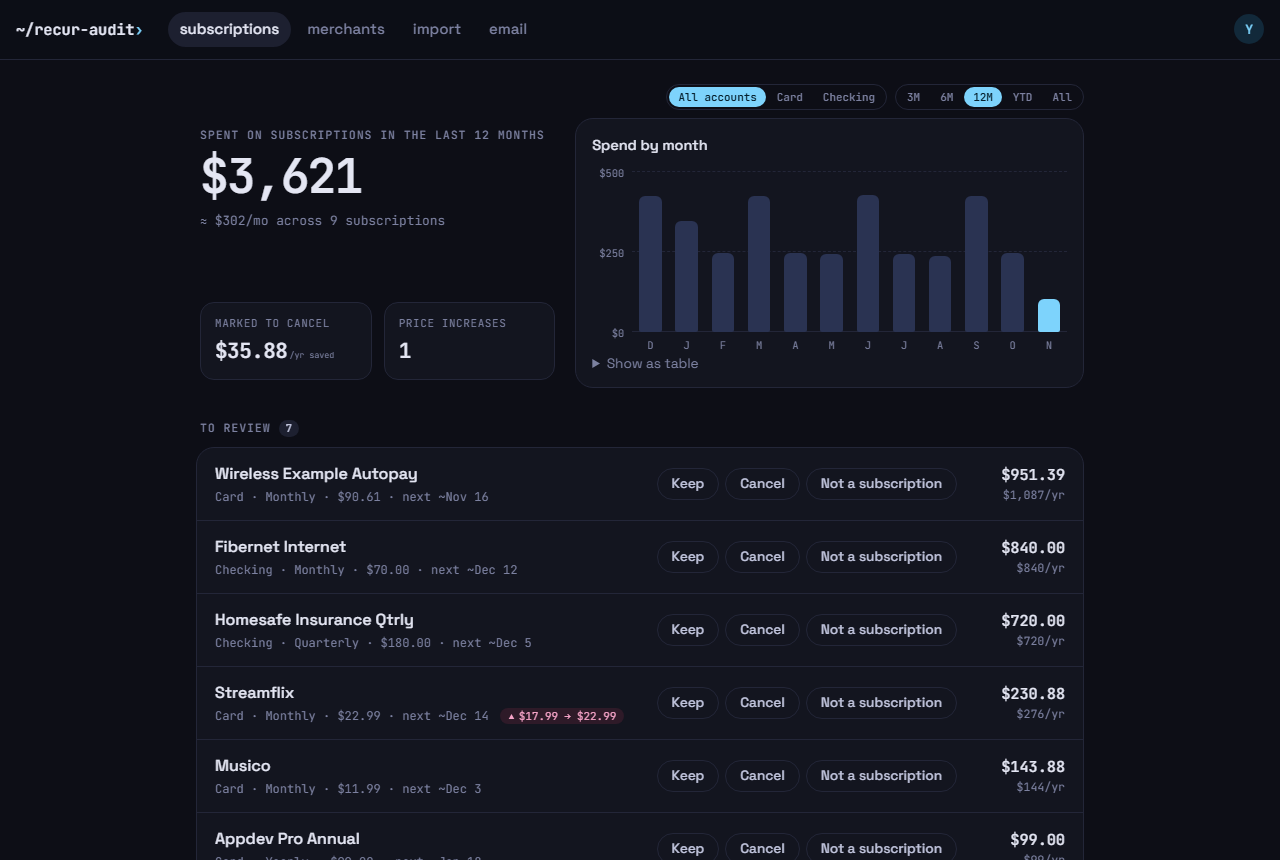
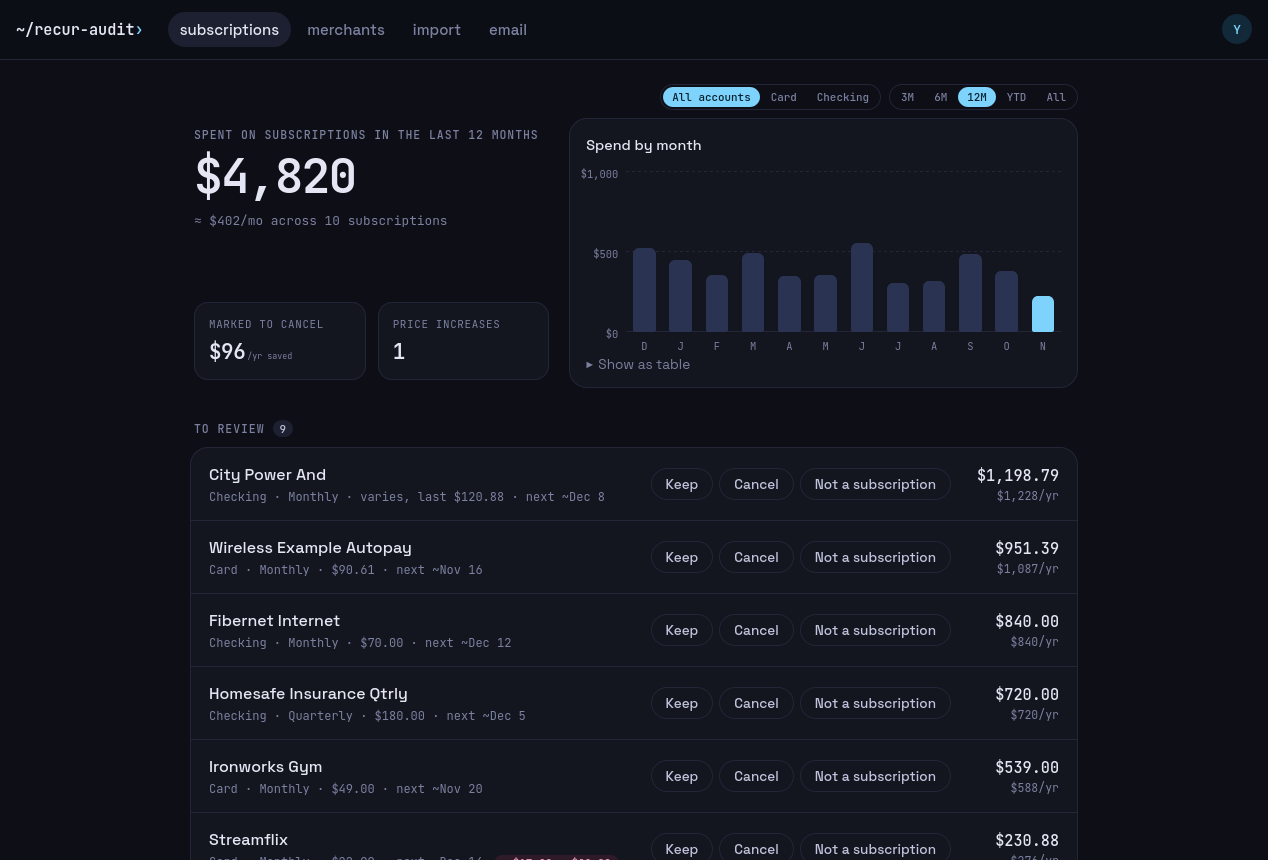
Fix detection false positives, show progress for Suggest categories, refresh screenshots
- Plans under one merchant must share an exact price, so random purchases at similar prices aren't plans
- A recent run alone only counts at one steady price, so a swinging utility bill stays a variable bill
- Suggest categories disables the page while the model works and says how many it categorized
- New dashboard and merchants screenshots from demo data

diff --git a/app/templates/merchants.html b/app/templates/merchants.html
@@ -18,13 +18,17 @@
       {% if counts.none %}<a href="{{ filter_url('none') }}" {% if category == "none" %}aria-current="true"{% endif %}>Uncategorized <span>{{ counts.none }}</span></a>{% endif %}
     </nav>
     {% if can_suggest and counts.none %}
+      {# The whole section shows it's busy, so nothing gets edited while the model answers. #}
       <button class="button" hx-post="/merchants/suggest" hx-vals='{"filter": {{ category | tojson }}}'
-              hx-target="#merchants" hx-select="#merchants" hx-swap="outerHTML">
+              hx-target="#merchants" hx-select="#merchants" hx-swap="outerHTML"
+              hx-indicator="#merchants" hx-disabled-elt="this">
         <span class="idle">Suggest categories</span><span class="busy">Asking the model…</span>
       </button>
     {% endif %}
   </div>
+  <div class="notice busy-note"><p>Categorizing {{ counts.none }} merchant{{ "" if counts.none == 1 else "s" }} with your model. It takes a few seconds, or about a minute if the model was asleep.</p></div>
   {% if error %}<div class="notice error"><p>{{ error }}</p></div>{% endif %}
+  {% if suggested is not none %}<div class="notice ok"><p>{{ suggested }}</p></div>{% endif %}
   {% if not merchants %}
     <p class="empty muted">No merchants in this category.</p>
   {% else %}

diff --git a/app/static/app.css b/app/static/app.css
@@ -548,6 +548,10 @@ button, select, input { font: inherit; color: inherit; }
 .filter-chips a span { margin-left: 4px; color: var(--muted); font: 0.75rem var(--mono); }
 .filter-chips a[aria-current="true"] { background: var(--accent); border-color: var(--accent); color: var(--on-accent); }
 .filter-chips a[aria-current="true"] span { color: inherit; opacity: 0.75; }
+.busy-note { display: none; background: var(--accent-soft); }
+#merchants.htmx-request .busy-note { display: block; }
+#merchants.htmx-request .notice.ok, #merchants.htmx-request .notice.error { display: none; }
+#merchants.htmx-request .list, #merchants.htmx-request .filter-chips { opacity: 0.4; pointer-events: none; }
 .merchant-tools { display: flex; flex-wrap: wrap; align-items: center; justify-content: space-between; gap: 12px; margin: 16px 0; }
 .merchant-stats { grid-row: 1 / span 2; grid-column: 2; display: flex; flex-direction: column; align-items: flex-end; font-size: 0.75rem; }
 

diff --git a/app/recurring.py b/app/recurring.py
@@ -21,8 +21,6 @@ STOPPED_AFTER_PERIODS = 1.5
 # Judge the latest regular stretch, so a move or plan change doesn't hide a subscription, but only when
 # that stretch is a good share of the charges, so a lucky few among random purchases don't count.
 MIN_RUN_SHARE = 1 / 3
-# App stores and PayPal bill each plan separately under one name; charges this close in price are one plan.
-SAME_PLAN_TOLERANCE = 0.05
 # Bills like a card autopay change every time, so only their timing can mark them as recurring.
 VARIABLE_BILL_MIN_CHARGES = 6
 
@@ -126,7 +124,10 @@ def _subscription(merchant: str, charges: list[Charge], plan_cents: int | None =
             if len(charges) - start >= len(charges) * MIN_RUN_SHARE]
     for run in runs:
         cadence = _cadence(run)
-        if cadence and _amounts_are_stable(run):
+        # A recent run alone must hold one steady price, as after a plan change; a bill that swings
+        # every month can have a few similar months in a row, and that doesn't make it a fixed price.
+        stable = _amounts_are_stable(run) if len(run) == len(charges) else _price_is_steady(run)
+        if cadence and stable:
             return Subscription(merchant, cadence, charges, plan_cents=plan_cents)
     for run in runs:
         cadence = _cadence(run)
@@ -136,14 +137,15 @@ def _subscription(merchant: str, charges: list[Charge], plan_cents: int | None =
 
 
 def _plans(charges: list[Charge]) -> list[list[Charge]]:
-    """Charges grouped by price, oldest first in each group; groups too small to recur are dropped."""
-    groups: list[list[Charge]] = []
-    for charge in sorted(charges, key=lambda charge: charge.amount_cents):
-        if groups and charge.amount_cents <= groups[-1][0].amount_cents * (1 + SAME_PLAN_TOLERANCE):
-            groups[-1].append(charge)
-        else:
-            groups.append([charge])
-    return [sorted(group, key=lambda charge: charge.posted_on) for group in groups if len(group) >= MIN_CHARGES]
+    """Charges grouped by exact price, oldest first; groups too small to recur are dropped.
+
+    App stores and PayPal bill each plan separately under one name, always for the same amount. Grouping
+    near prices instead would turn random purchases that happen to cost about the same into plans.
+    """
+    groups: dict[int, list[Charge]] = {}
+    for charge in charges:
+        groups.setdefault(charge.amount_cents, []).append(charge)
+    return [group for group in groups.values() if len(group) >= MIN_CHARGES]
 
 
 def _cadence(charges: list[Charge]) -> str | None:
@@ -156,6 +158,11 @@ def _cadence(charges: list[Charge]) -> str | None:
             regular = sum(abs(gap - days) <= days * GAP_TOLERANCE for gap in gaps)
             return name if regular / len(gaps) >= MIN_REGULAR_GAP_SHARE else None
     return None
+
+
+def _price_is_steady(charges: list[Charge]) -> bool:
+    typical = median(charge.amount_cents for charge in charges)
+    return all(abs(charge.amount_cents - typical) <= typical * PRICE_CHANGE_THRESHOLD for charge in charges)
 
 
 def _amounts_are_stable(charges: list[Charge]) -> bool:

diff --git a/app/main.py b/app/main.py
@@ -264,7 +264,7 @@ def merchants(request: Request, category: str = "", user=Depends(current_user), 
     return _render_merchants(request, user, conn, category)
 
 
-def _render_merchants(request, user, conn, category="", error=None):
+def _render_merchants(request, user, conn, category="", error=None, suggested=None):
     """`category` filters the list: one of CATEGORIES, "none" for uncategorized, or empty for all."""
     rows = db.merchant_summary(conn, user)
     chosen = db.categories(conn, user)
@@ -276,7 +276,8 @@ def _render_merchants(request, user, conn, category="", error=None):
         rows = [r for r in rows if chosen.get(r["name"], "none") == category]
     return templates.TemplateResponse(request, "merchants.html", {
         "user": user, "merchants": rows, "chosen": chosen, "categories": categories.CATEGORIES,
-        "counts": counts, "category": category, "can_suggest": categories.configured(), "error": error})
+        "counts": counts, "category": category, "can_suggest": categories.configured(), "error": error,
+        "suggested": suggested})
 
 
 @app.post("/merchants/rename", response_class=HTMLResponse, dependencies=[Depends(htmx_only)])
@@ -309,11 +310,15 @@ def suggest_categories(request: Request, filter: str = Form(""), user=Depends(cu
         if row["name"] not in chosen:
             todo.setdefault(row["name"], row["example"])
     try:
-        db.set_categories(conn, user, categories.suggest(list(todo.items())))
+        found = categories.suggest(list(todo.items()))
     except categories.ModelUnavailable as error:
         log.warning("category suggestions failed: %s", error)
         return _render_merchants(request, user, conn, filter, error="Couldn’t reach the model. Is it running?")
-    return _render_merchants(request, user, conn, filter)
+    db.set_categories(conn, user, found)
+    message = f"Suggested a category for {len(found)} merchant{'' if len(found) == 1 else 's'}."
+    if len(found) < len(todo):
+        message += f" {len(todo) - len(found)} still need one; pick those yourself."
+    return _render_merchants(request, user, conn, filter, suggested=message)
 
 
 # ---------- Email cleanup ----------

diff --git a/tests/test_recurring.py b/tests/test_recurring.py
@@ -119,3 +119,20 @@ def test_weekly_shopping_with_changing_amounts_is_not_a_bill():
     charges = [Charge(date(2026, 1, 3) + timedelta(weeks=w), a)
                for w, a in enumerate([8211, 4520, 12090, 6310, 9930, 3870, 10450, 5120])]
     assert detect({"GROCER": charges}) == []
+
+
+def test_random_purchases_in_a_narrow_price_band_are_not_a_plan():
+    purchases = [("2025-09-07", 1357), ("2025-09-30", 2559), ("2025-10-09", 1201), ("2025-10-19", 2556),
+                 ("2025-11-06", 1624), ("2025-11-20", 2505), ("2025-11-25", 2032), ("2026-01-17", 2618),
+                 ("2026-01-22", 1320), ("2026-02-28", 1189), ("2026-03-03", 1719), ("2026-03-05", 1944),
+                 ("2026-03-31", 1572), ("2026-05-07", 2333), ("2026-05-23", 1971), ("2026-05-30", 2044),
+                 ("2026-06-02", 1132), ("2026-06-06", 2424), ("2026-06-08", 2070), ("2026-07-01", 2186),
+                 ("2026-07-16", 1642), ("2026-10-03", 1654)]
+    charges = [Charge(date.fromisoformat(day), cents) for day, cents in purchases]
+    assert detect({"TACO PLACE": charges}) == []
+
+
+def test_a_utility_bill_with_a_few_similar_months_is_still_a_variable_bill():
+    amounts = [5512, 14230, 7870, 13011, 6640, 14390, 5980, 9020, 11800, 10120, 12088, 11540, 10930, 12500]
+    [sub] = detect({"CITY POWER": monthly(date(2025, 9, 8), amounts)})
+    assert sub.variable

diff --git a/tests/test_categories.py b/tests/test_categories.py
@@ -86,7 +86,8 @@ def test_suggest_fills_only_uncategorized_merchants_and_sends_no_amounts_or_date
     upload(client, monthly_csv(range(1, 4), description="FRESHMART", amount="-82.10"), name="b.csv")
     set_category(client, "Freshmart", "Shopping")
 
-    assert client.post("/merchants/suggest", headers={**ME, **HTMX}).status_code == 200
+    page = visible_text(client.post("/merchants/suggest", headers={**ME, **HTMX}).text)
+    assert "Suggested a category for 1 merchant." in page
     groceries = client.get("/merchants", params={"category": "Groceries"}, headers=ME).text
     streaming = client.get("/merchants", params={"category": "Subscriptions & streaming"}, headers=ME).text
     assert "Freshmart" not in groceries  # the person's own choice stays

diff --git a/scripts/make_demo_data.py b/scripts/make_demo_data.py
@@ -78,7 +78,7 @@ checking = []
 for when in months(1):
     checking.append((when, "ACH DEBIT MAPLE COURT APTS RENT", "1850.00", ""))  # regular, so it shows up: mark it "Not a subscription"
 for when in months(8):
-    checking.append((when, "CITY POWER AND LIGHT", f"{rng.uniform(55, 150):.2f}", ""))  # swings too much to count
+    checking.append((when, "CITY POWER AND LIGHT", f"{rng.uniform(55, 150):.2f}", ""))  # swings in amount, so it shows up as a variable bill
 for when in months(12):
     checking.append((when, "FIBERNET INTERNET", "70.00", ""))
 for when in months(5, every=3):

diff --git a/DECISIONS.md b/DECISIONS.md
@@ -20,7 +20,7 @@ Uploaded files are stored byte-for-byte at `data/raw/<sha256>.<ext>`; cleaning h
 
 ## Merchants and subscriptions
 
-`merchants.merchant_key()` cleans bank descriptions; renames on the Merchants page override it, and giving two keys one name merges them. Subscription detection is plain math with thresholds as constants in `app/recurring.py`: 3+ charges, regular gaps (weekly to yearly, ±20%), stable amounts (75% within 25%). It judges the latest regular run of charges, as long as that's a third of them, so a move or plan change doesn't hide a subscription. A merchant that bills several plans under one name (Apple, Google Play) is split by price and each plan is checked on its own. Monthly-or-longer charges that are regular 6+ times but change in amount, like a card autopay, count as variable bills. No AI is involved in detection.
+`merchants.merchant_key()` cleans bank descriptions; renames on the Merchants page override it, and giving two keys one name merges them. Subscription detection is plain math with thresholds as constants in `app/recurring.py`: 3+ charges, regular gaps (weekly to yearly, ±20%), stable amounts (75% within 25%). It judges the latest regular run of charges, as long as that's a third of them, so a move or plan change doesn't hide a subscription. A merchant that bills several plans under one name (Apple, Google Play) is split by exact price and each plan is checked on its own. Monthly-or-longer charges that are regular 6+ times but change in amount, like a card autopay, count as variable bills. No AI is involved in detection.
 
 ## Categories
 

diff --git a/README.md b/README.md
@@ -5,8 +5,9 @@ Finds the recurring charges in your bank statements and cleans up an old Gmail i
 It's local first. It runs on your own computer, everything lives in one SQLite file, and nothing leaves your machine unless you connect Gmail, and even then only email headers are read. The same container runs on an always-on box behind Tailscale, and everyone only sees their own data.
 
 <p>
-  <img src="docs/dashboard.png" alt="Subscriptions dashboard: spend over the last 12 months, a chart by month, and recurring charges to review" width="49%">
-  <img src="docs/email.png" alt="Email cleanup: senders billing you, and suggested actions for each sender" width="49%">
+  <img src="docs/dashboard.png" alt="Subscriptions dashboard: spend over the last 12 months, a chart by month, and recurring charges to review" width="32%">
+  <img src="docs/merchants.png" alt="Merchants: each merchant with a category, and category filters" width="32%">
+  <img src="docs/email.png" alt="Email cleanup: senders billing you, and suggested actions for each sender" width="32%">
 </p>
 
 ## Features
